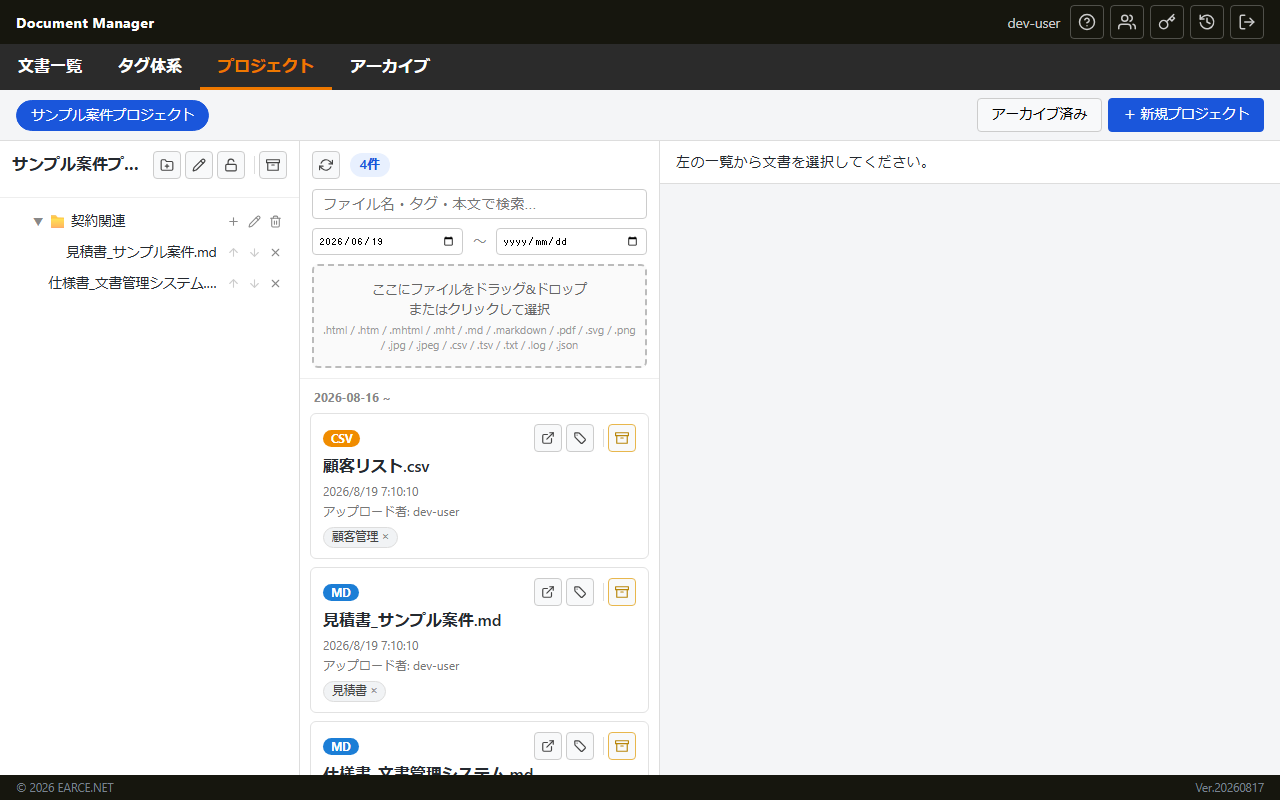
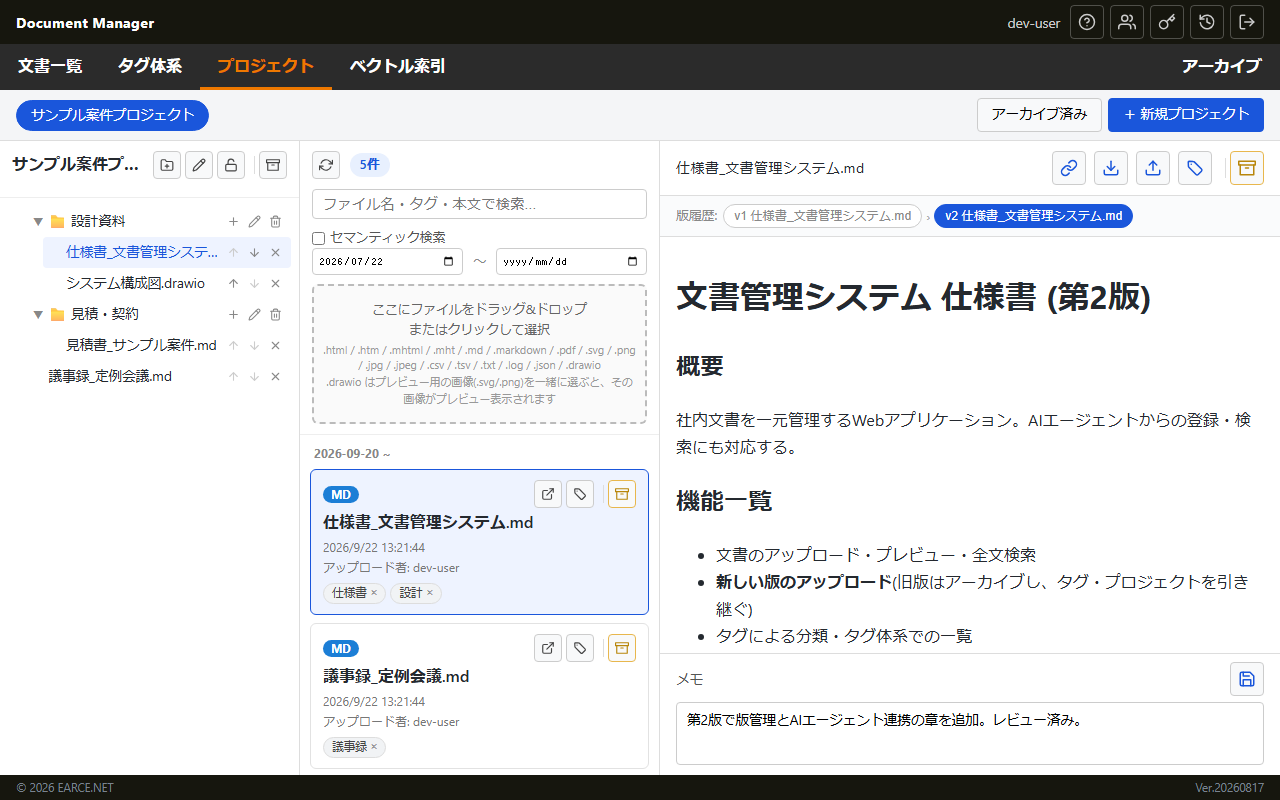
READMEを現状に合わせて更新し、スクリーンショットを撮り直し(撮影スクリプト追加)
- スクリーンショットを最新UIで撮り直し(版履歴・ベクトル索引メニュー・draw.ioプレビュー・
  「新しい版で置換」の操作履歴を含む)、APIキー管理・AIエージェント用Skillの画像を追加
- docs/screenshots/capture.js(npm run screenshots)を追加。一時DB・認証無効で起動し、
  ダミーデータを登録してChromiumで撮影する(表示中の平文APIキーは伏せ字にする)
- 冒頭に主要機能の要約を追加
- ディレクトリ構成を更新(2ステージDockerfile、workflows、drawio.js/claude-skill.js、
  tools/claude-skill、test、docs、バージョン付きSQLiteファイル名)
- テスト節にE2E(test:e2e)・版管理/無期限キー/Skill ZIPのテスト・Skill結合テストを追記
- Dockerfileの説明を2ステージ構成(QEMU下でnodeを実行しない理由)に更新し、CI/CDの一覧を追加
- Skill段落の句点抜けを修正

diff --git a/docs/screenshots/capture.js b/docs/screenshots/capture.js
@@ -1,0 +1,234 @@
+/*!
+ * capture.js : README用スクリーンショット(docs/screenshots/*.png)の撮影
+ * Copyright(c) 2026 EARCE.NET <d.idei@earce.net>
+ * MIT Licensed
+ *
+ * 実行: リポジトリ直下で `npm run screenshots`
+ *   (要: ルートで npm install、app/ で npm install、`npx playwright install chromium`)
+ *
+ * 一時DATA_DIR・認証無効(AUTH_DISABLED=true、dev-user=admin)でアプリを起動し、ダミーの
+ * サンプルデータ(文書・版・タグ体系・プロジェクト・メモ)をAPIで登録してから、Chromiumで
+ * 各画面を 1280x800 で撮影する。既存のPNGは上書きされる。機能追加で画面が変わったら
+ * これを再実行して README の画像を更新する。
+ */
+
+const {spawn} = require("node:child_process");
+const fs = require("node:fs");
+const os = require("node:os");
+const path = require("node:path");
+const {chromium} = require("@playwright/test");
+
+const REPO = path.resolve(__dirname, "..", "..");
+const OUT_DIR = __dirname;
+const PORT = Number(process.env.SCREENSHOT_PORT || 18097);
+const BASE_URL = `http://127.0.0.1:${PORT}/`;
+const VIEWPORT = {width: 1280, height: 800};
+
+const api = async (method, apiPath, body) => {
+	const init = {method};
+	if (body instanceof FormData) {
+		init.body = body;
+	} else if (body !== undefined) {
+		init.headers = {"Content-Type": "application/json"};
+		init.body = JSON.stringify(body);
+	}
+	const res = await fetch(new URL(apiPath, BASE_URL), init);
+	if (!res.ok) throw new Error(`${method} ${apiPath}: ${res.status} ${await res.text()}`);
+	const text = await res.text();
+	return text ? JSON.parse(text) : null;
+};
+
+const upload = async (name, content, {previousId, preview} = {}) => {
+	const form = new FormData();
+	form.append("uploadfile", new Blob([content]), name);
+	if (preview) form.append("previewfile", new Blob([preview.content]), preview.name);
+	if (previousId) form.append("previousId", previousId);
+	return api("POST", "api/documents", form);
+};
+
+const setTags = (id, tags) => api("PUT", `api/documents/${encodeURIComponent(id)}/tags`, {tags});
+
+const SPEC_V1 = `# 文書管理システム 仕様書
+
+## 概要
+社内文書を一元管理するWebアプリケーション。
+
+## 機能一覧
+- 文書のアップロード・プレビュー・検索
+- タグによる分類
+- プロジェクト単位でのフォルダ管理
+`;
+
+const SPEC_V2 = `# 文書管理システム 仕様書 (第2版)
+
+## 概要
+社内文書を一元管理するWebアプリケーション。AIエージェントからの登録・検索にも対応する。
+
+## 機能一覧
+- 文書のアップロード・プレビュー・全文検索
+- **新しい版のアップロード**(旧版はアーカイブし、タグ・プロジェクトを引き継ぐ)
+- タグによる分類・タグ体系での一覧
+- プロジェクト単位でのフォルダ管理
+- 操作履歴の確認
+- APIキー(無期限キー対応)と AIエージェント用 Skill
+
+## 改訂履歴
+| 版 | 内容 |
+|---|---|
+| 第1版 | 初版 |
+| 第2版 | 版管理・AIエージェント連携を追記 |
+`;
+
+const ESTIMATE = `# 見積書 サンプル案件
+
+| 項目 | 数量 | 金額 |
+|---|---|---|
+| 要件定義 | 1式 | 500,000円 |
+| 設計・開発 | 1式 | 1,800,000円 |
+| テスト | 1式 | 400,000円 |
+`;
+
+const MINUTES = `# 定例会議 議事録
+
+- 日時: 2026年9月定例
+- 参加者: 開発チーム
+
+## 決定事項
+- 版管理機能をリリースする
+- AIエージェント用 Skill を配布する
+`;
+
+const CUSTOMERS = "顧客ID,会社名,担当者,地域\nC001,サンプル商事,山田,東京\nC002,テスト工業,佐藤,大阪\nC003,デモ物産,鈴木,名古屋\n";
+
+const DRAWIO = `<mxfile><diagram name="システム構成"><mxGraphModel><root><mxCell id="0"/><mxCell id="1" parent="0"/>
+<mxCell id="2" value="ブラウザ" vertex="1" parent="1"/><mxCell id="3" value="Document Manager" vertex="1" parent="1"/>
+<mxCell id="4" value="SQLite / PostgreSQL" vertex="1" parent="1"/></root></mxGraphModel></diagram></mxfile>`;
+
+const DRAWIO_SVG = `<svg xmlns="http://www.w3.org/2000/svg" width="640" height="260" viewBox="0 0 640 260" font-family="sans-serif" font-size="16">
+<rect width="640" height="260" fill="#fff"/>
+<rect x="20" y="95" width="150" height="60" rx="8" fill="#e8f0fe" stroke="#1a56db"/><text x="95" y="130" text-anchor="middle">ブラウザ</text>
+<rect x="245" y="95" width="170" height="60" rx="8" fill="#fff3cd" stroke="#b8860b"/><text x="330" y="130" text-anchor="middle">Document Manager</text>
+<rect x="480" y="40" width="140" height="60" rx="8" fill="#eaf7ea" stroke="#2f9e44"/><text x="550" y="75" text-anchor="middle">メタDB</text>
+<rect x="480" y="150" width="140" height="60" rx="8" fill="#eaf7ea" stroke="#2f9e44"/><text x="550" y="185" text-anchor="middle">文書ストレージ</text>
+<g stroke="#555" stroke-width="2"><line x1="170" y1="125" x2="245" y2="125"/><line x1="415" y1="115" x2="480" y2="75"/><line x1="415" y1="135" x2="480" y2="180"/></g>
+</svg>`;
+
+const seed = async () => {
+	const customers = await upload("顧客リスト.csv", CUSTOMERS);
+	await setTags(customers.id, ["顧客管理"]);
+	const estimate = await upload("見積書_サンプル案件.md", ESTIMATE);
+	await setTags(estimate.id, ["見積書"]);
+	const drawio = await upload("システム構成図.drawio", DRAWIO, {preview: {name: "システム構成図.svg", content: DRAWIO_SVG}});
+	await setTags(drawio.id, ["設計"]);
+	const minutes = await upload("議事録_定例会議.md", MINUTES);
+	await setTags(minutes.id, ["議事録"]);
+
+	const specV1 = await upload("仕様書_文書管理システム.md", SPEC_V1);
+	await setTags(specV1.id, ["仕様書", "設計"]);
+
+	const project = await api("POST", "api/projects", {name: "サンプル案件プロジェクト"});
+	const designFolder = await api("POST", `api/projects/${project.id}/folders`, {name: "設計資料"});
+	const salesFolder = await api("POST", `api/projects/${project.id}/folders`, {name: "見積・契約"});
+	await api("PUT", `api/projects/${project.id}/documents/${specV1.id}`, {folderId: designFolder.id});
+	await api("PUT", `api/projects/${project.id}/documents/${drawio.id}`, {folderId: designFolder.id});
+	await api("PUT", `api/projects/${project.id}/documents/${estimate.id}`, {folderId: salesFolder.id});
+	await api("PUT", `api/projects/${project.id}/documents/${minutes.id}`, {folderId: null});
+
+	// 新しい版としてアップロード(旧版はアーカイブされ、タグ・プロジェクト配置が引き継がれる)
+	const specV2 = await upload("仕様書_文書管理システム.md", SPEC_V2, {previousId: specV1.id});
+	await api("PUT", `api/documents/${specV2.id}/memo`, {memo: "第2版で版管理とAIエージェント連携の章を追加。レビュー済み。"});
+
+	await api("PUT", "api/tag_order", {tags: ["仕様書", "設計", "見積書", "議事録", "顧客管理"]});
+	return {specV2, project};
+};
+
+const waitForServer = async (proc) => {
+	for (let i = 0; i < 60; i++) {
+		if (proc.exitCode != null) throw new Error("server exited");
+		try {
+			const res = await fetch(new URL("_ping", BASE_URL));
+			if (res.ok) return;
+		} catch {}
+		await new Promise((r) => setTimeout(r, 500));
+	}
+	throw new Error("server did not start");
+};
+
+const main = async () => {
+	const dataDir = fs.mkdtempSync(path.join(os.tmpdir(), "dm-screenshots-"));
+	const server = spawn(process.execPath, [path.join(REPO, "app", "server.js")], {
+		cwd: path.join(REPO, "app"),
+		env: {...process.env, AUTH_DISABLED: "true", DATA_DIR: dataDir, LISTEN_PORT: String(PORT), LOG_LEVEL: "warn", SESSION_SECRET: "screenshots"},
+		stdio: "inherit"
+	});
+	const browser = await chromium.launch();
+	try {
+		await waitForServer(server);
+		const {specV2, project} = await seed();
+
+		const page = await browser.newPage({viewport: VIEWPORT, locale: "ja-JP", timezoneId: "Asia/Tokyo"});
+		const shot = async (name) => {
+			await page.waitForTimeout(400); // 描画・フォント読み込みの完了待ち
+			await page.screenshot({path: path.join(OUT_DIR, `${name}.png`)});
+			console.log(`saved: docs/screenshots/${name}.png`);
+		};
+
+		// 1. 文書一覧・プレビュー(新しい版の文書を選択し、版履歴を表示)
+		await page.goto(BASE_URL);
+		await page.locator("#documentList li", {hasText: "仕様書_文書管理システム.md"}).click();
+		await page.locator("#versionHistoryRow .versionChip.current").waitFor();
+		await page.frameLocator("#previewFrame").locator("h1").waitFor();
+		await shot("document-list");
+
+		// 2. タグ体系
+		// (draw.io 文書を選び、添付したプレビュー画像が表示される様子も写す)
+		await page.locator("#menuTagTreeLink").click();
+		await page.locator("#documentList li", {hasText: "システム構成図.drawio"}).first().click();
+		await page.frameLocator("#previewFrame").locator("svg").waitFor();
+		await shot("tag-tree");
+
+		// 3. プロジェクト(フォルダ階層。新しい版がフォルダ内の同じ位置に引き継がれている)
+		await page.locator("#menuProjectsLink").click();
+		await page.locator(`.projectTab[data-id="${project.id}"]`).click();
+		await page.locator(`.treeDocRow[data-document-id="${specV2.id}"]`).click();
+		await page.frameLocator("#previewFrame").locator("h1").waitFor();
+		await shot("projects");
+
+		// 4. 操作履歴
+		await page.locator("#historyManageLink").click();
+		await page.locator("#historyList tr").first().waitFor();
+		await shot("history");
+		await page.locator("#historyCloseButton").click();
+
+		// 5. APIキー管理と AIエージェント用 Skill
+		await page.locator("#menuDocumentsLink").click();
+		await page.locator("#apiKeyManageLink").click();
+		await page.selectOption("#apiKeyRoleInput", "readwrite");
+		await page.locator("#apiKeyExpirySummaryButton").click();
+		await page.locator('.expiryRadioPill[data-value="unlimited"]').click();
+		await page.locator("#apiKeyCreateButton").click();
+		await page.locator(".apiKeyValue").waitFor();
+		// 公開READMEにキー形式の文字列を載せないよう、表示中の平文キーを伏せ字にしてから撮る
+		// (一時DBのキーで撮影後に破棄されるが、秘密情報スキャナ等の誤検知も避ける)
+		await page.locator(".apiKeyValue").evaluate((el) => { el.textContent = "dm_xxxxxxxxxxxxxxxxxxxxxxxxxxxxxxxxxxxxxxxxxxx"; });
+		await page.locator("#claudeSkillBox summary").click();
+		await page.locator('#claudeSkillBox .skillAgentTab[data-agent="claude"]').click();
+		// モーダルは縦に長いため、ビューポートを広げてモーダル部分だけを撮る
+		await page.setViewportSize({width: VIEWPORT.width, height: 1400});
+		await page.waitForTimeout(400);
+		await page.locator("#apiKeyModalBox").screenshot({path: path.join(OUT_DIR, "api-keys-skill.png")});
+		console.log("saved: docs/screenshots/api-keys-skill.png");
+	} finally {
+		await browser.close();
+		// Windowsではサーバーがファイル(SQLite)を掴んだままだと削除できないため、終了を待ってから消す
+		const exited = server.exitCode != null ? Promise.resolve() : new Promise((resolve) => server.once("exit", resolve));
+		server.kill();
+		await exited;
+		fs.rmSync(dataDir, {recursive: true, force: true, maxRetries: 5, retryDelay: 200});
+	}
+};
+
+main().catch((err) => {
+	console.error(err);
+	process.exit(1);
+});
